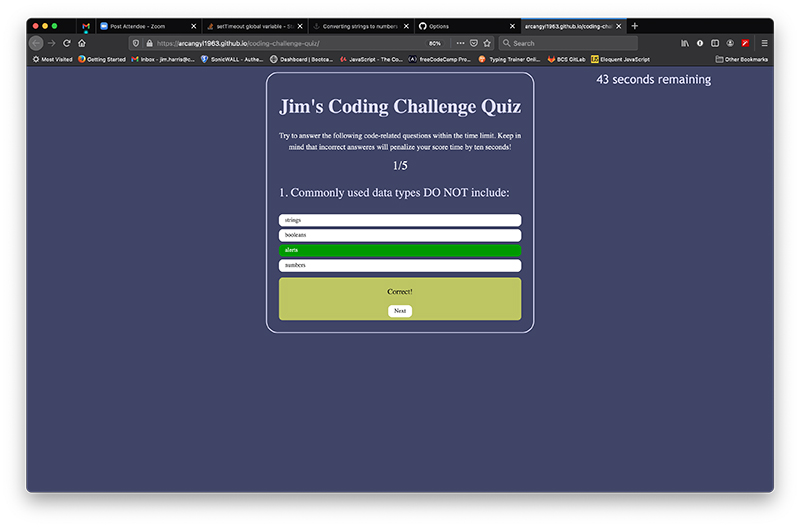
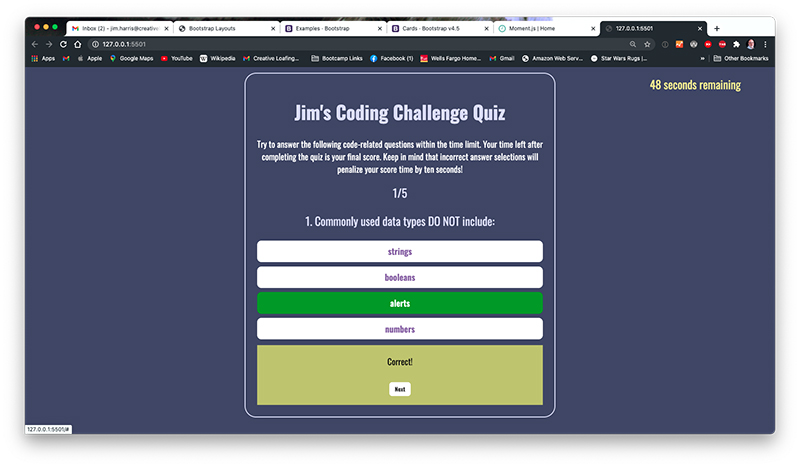
Updated the README file and replaced images with new screenshots after modifications to the application were made

Changed region(s): [[0.0312, 0.03, 0.9688, 0.8994], [0.0312, 0.8994, 0.9688, 0.9593]]

diff --git a/assets/js/quiz.js b/assets/js/quiz.js
@@ -320,6 +320,8 @@
         localStorage.setItem('playerData', (playerHist));
         var playerList = (localStorage.getItem('playerData'));
         $('li').text(playerList);
+        $('#quiz-restart-btn').show();
+
       },
   }
     base.methods.init();

diff --git a/README.md b/README.md
@@ -4,7 +4,7 @@
 
 The assignment for this project was to create a dynamic quiz application with a countdown timer and a series of questions on the subject of coding. The UI was to feature multiple choice answers the player could click on to select. The player may only select one answer as once clicked the question is locked. Wrong answer selections were to penalize the player by removing 10 seconds from the timer. Upon completion the player would click the Finish button and be shown their final score. A high score panel was to be presented where the user could enter their initials next to their score with that data stored on a High Scores page.
 
-I was not able to complete all of the functionality before deadline, but will continue to work on completing all of the requested features for the quiz application in the next few days.
+All feature requests have been implemented for both desktop and mobile device screens.
 
 ## Installation
 
